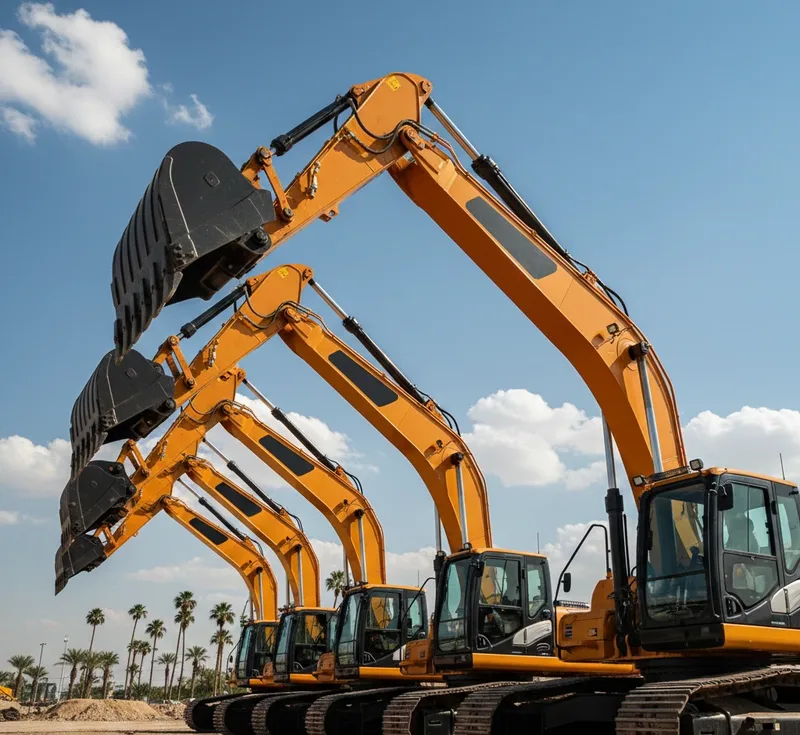
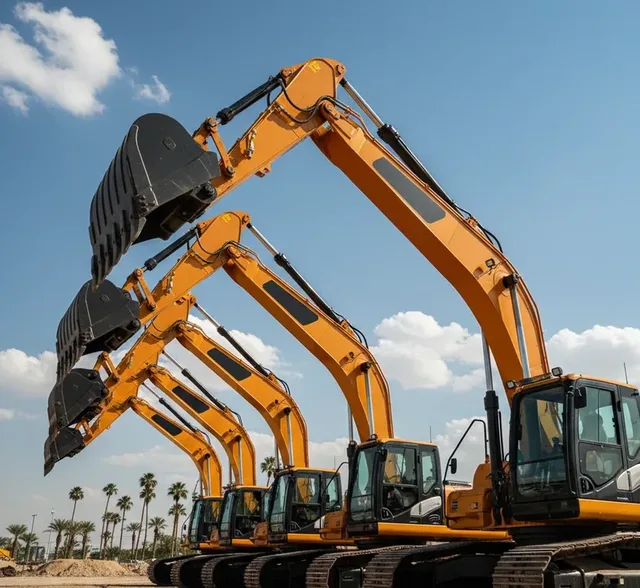
seo: meaningful blog hero alt text, /fundings overflow, shrink 2 images
Third audit pass.

- Blog hero Image: alt was empty + aria-hidden (decorative). Since the
  hero IS the primary visual, use the post title as alt for SEO and
  a11y. Clears 20 VERIFY_EMPTY_IMAGE_ALT_TEXT flags.
- /fundings: add overflow-x-hidden wrapper to fix mobile viewport
  overflow flagged by RESTRICT_CONTENT_WIDTH_TO_VIEWPORT.
- Shrink Equipment Leasing 79KB -> 56KB and SBA Loans 66KB -> 46KB
  (source was 800w, served variant is 750w, so 640w source is enough).

diff --git a/src/app/fundings/page.tsx b/src/app/fundings/page.tsx
@@ -73,7 +73,7 @@ export default function Fundings() {
   }
 
   return (
-    <>
+    <div className="overflow-x-hidden">
       {/* Breadcrumb - includes schema */}
       <Breadcrumb items={[{ label: 'Fundings' }]} />
 
@@ -179,6 +179,6 @@ export default function Fundings() {
         onClose={() => setIsModalOpen(false)}
         caseStudy={selectedStudy}
       />
-    </>
+    </div>
   )
 }

diff --git a/src/components/blog-hero-fade-in.tsx b/src/components/blog-hero-fade-in.tsx
@@ -26,12 +26,11 @@ export const BlogHeroFadeIn = ({ title, subtitle, date, author, authorTitle, aut
     {backgroundImage && (
       <Image
         src={backgroundImage}
-        alt=""
+        alt={title}
         fill
         priority
         sizes="100vw"
         className="object-cover"
-        aria-hidden="true"
       />
     )}
     {/* Dark overlay for text contrast */}
